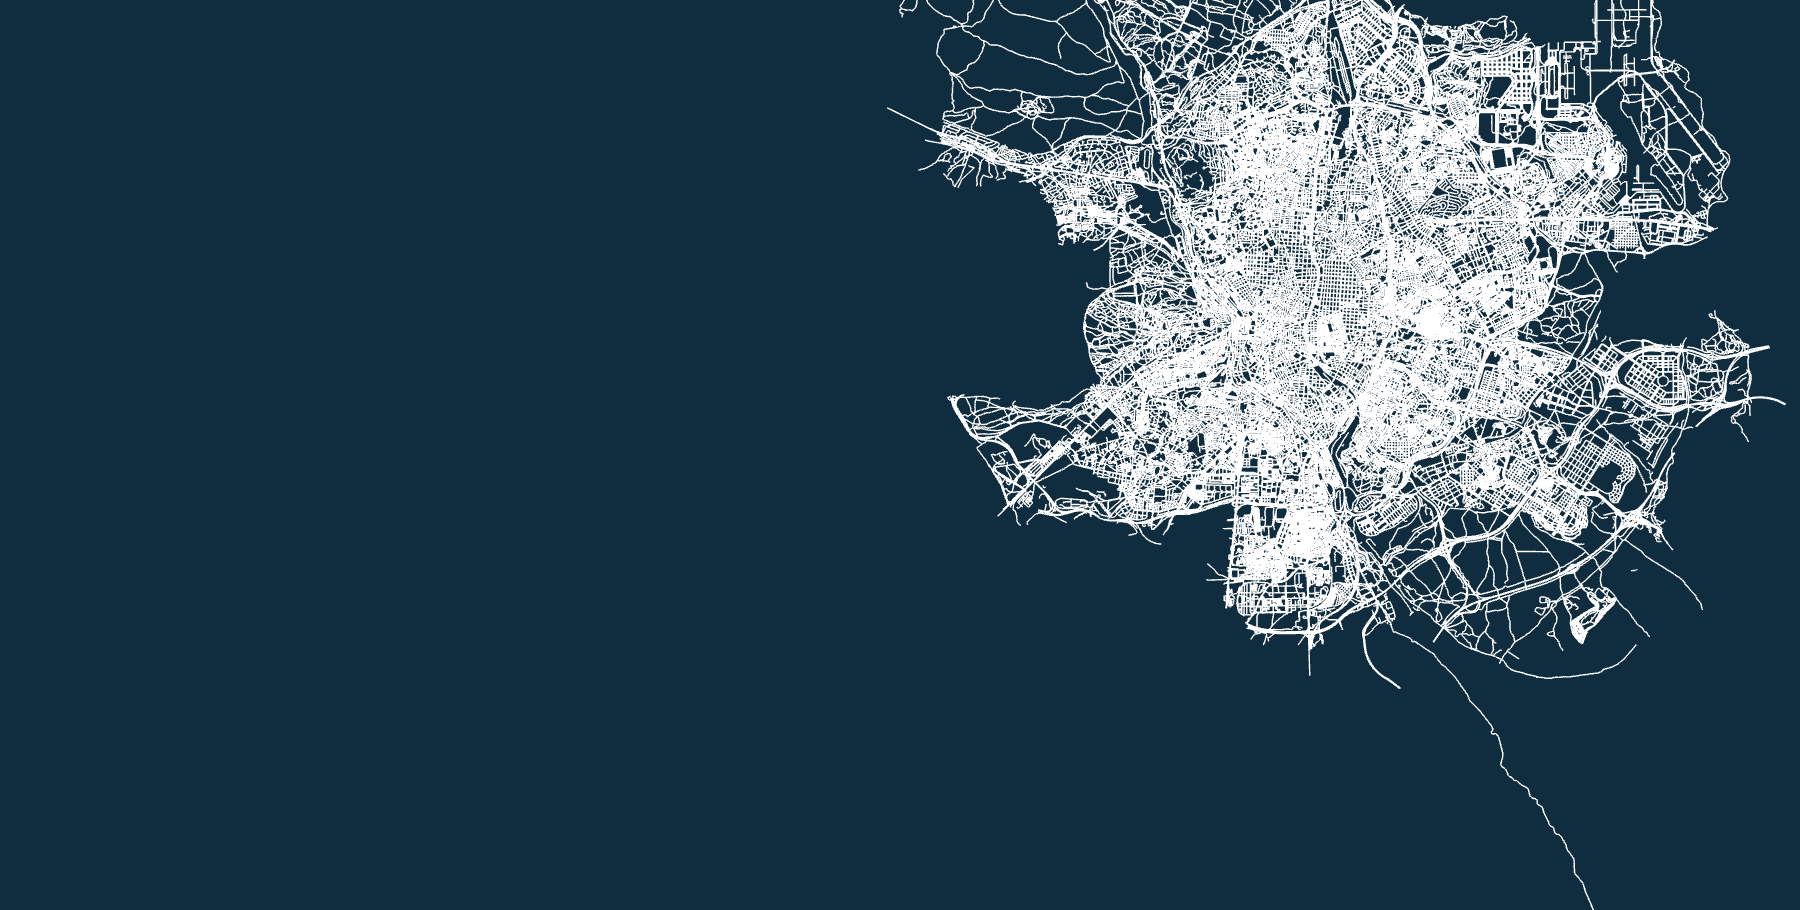
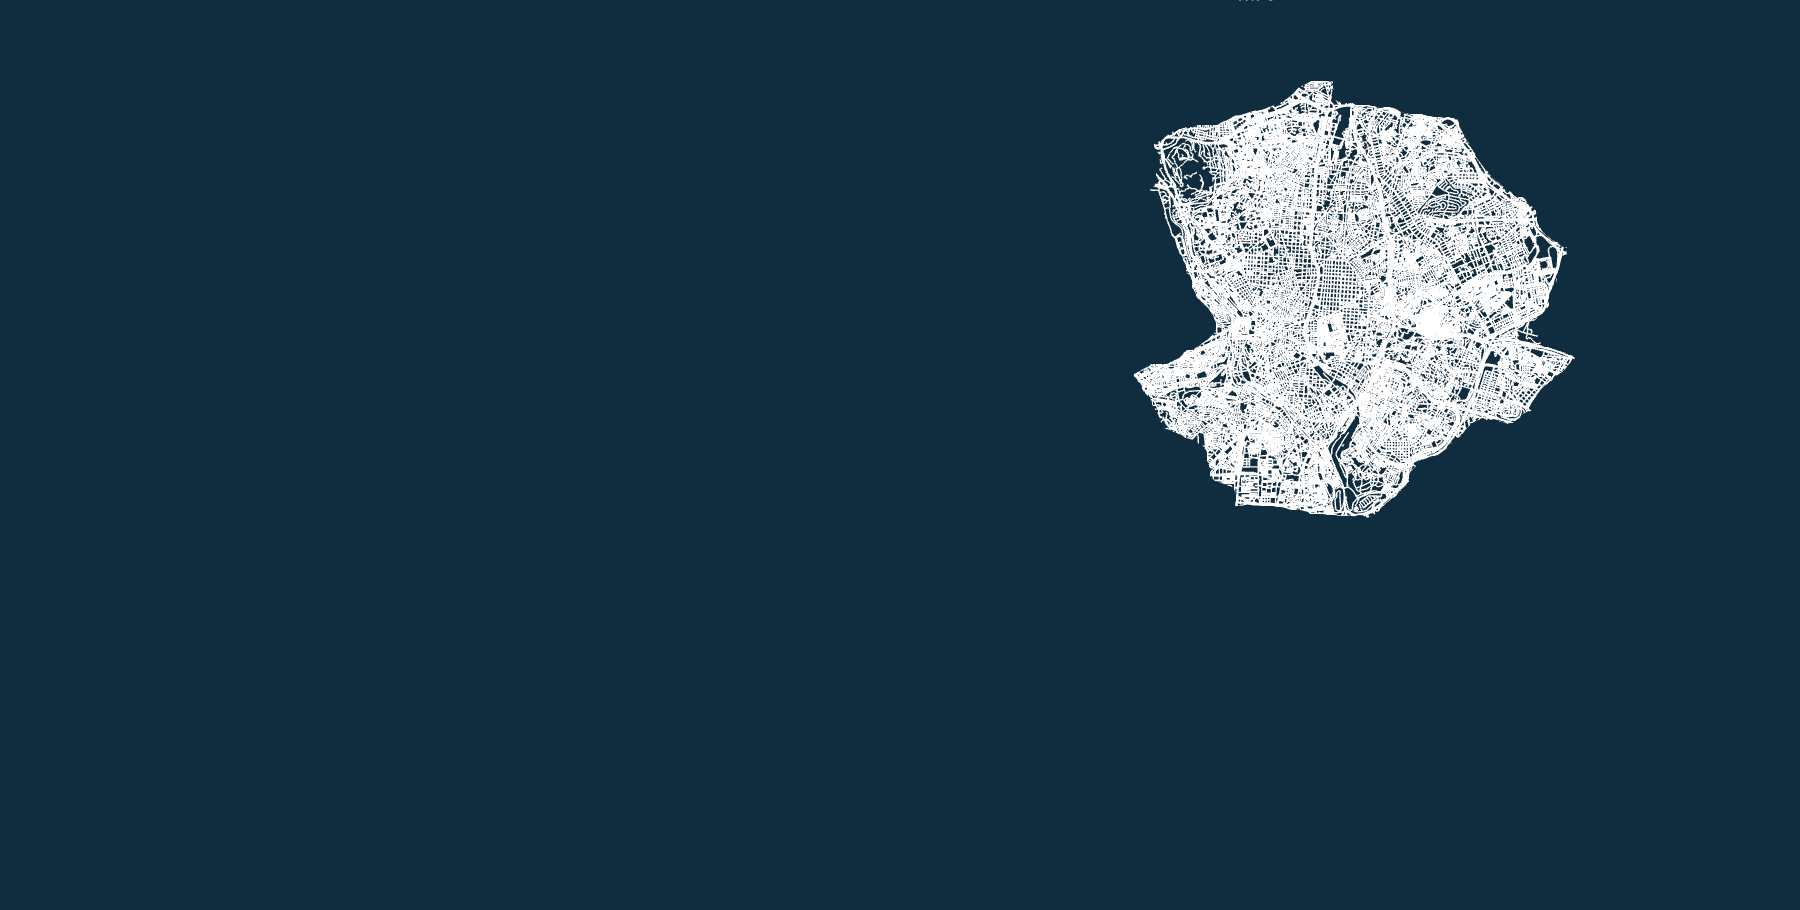
amb canvis després reunió, que es vegin tots els carrers, slogan només text, imatges i texte vertical opció madrid fora

Changed region(s): [[0.4978, 0.0, 0.9956, 0.7385], [0.4978, 0.0, 0.56, 0.0308]]

diff --git a/css/desktop/options.css b/css/desktop/options.css
@@ -15,27 +15,6 @@
         height: 100%;
         display: flex;
 
-        & .option--image{
-          position: absolute;
-          top: 0;
-          right: 0;
-          width: 33%;
-          height: 40%;
-          overflow: hidden;
-          & .option--img{
-            width: 100%;
-            height: 100%;
-            object-fit: cover;
-            opacity: 1;
-            transition: transform 0.5s;
-
-            &:hover {
-              transform: scale(1.1);
-            }
-          }
-        }
-
-
         & .main__grid--container{
           display: flex;
           flex-direction: column;
@@ -253,51 +232,17 @@
         }
       }
 
-      & .vertical--text--box{
-        display: flex;
-        align-items: center;
-        justify-content: center;
-        padding-right: 3rem;
-        gap: 1.5rem;
-        pointer-events: none;
-
-        & .vertical--text{
-          writing-mode: vertical-lr;
-          rotate: 180deg;
-          font-size: 15vh;
-          line-height: 130px;
-          font-weight: bold;
-          /*background-image: linear-gradient(90deg, #102d3f 0%, #62957d 80%);*/
-          /*-webkit-background-clip: text;*/
-          /*-webkit-text-fill-color: transparent;*/
-          color:var(--secondary-color);
-        }
-
-        @media (max-width: 1400px){
-          & .vertical--text{
-            line-height: 112px;
-          }
-
-        }
-
-        & > *:nth-child(odd){
-          /*background-image: linear-gradient(90deg, #95c1ad 0%, #62957d 80%);*/
-          /*-webkit-background-clip: text;*/
-          /*-webkit-text-fill-color: transparent;*/
-          color: var(--primary-color);
-        }
-      }
     }
     &.container__madrid {
       & .option__container {
         justify-content: flex-end;
 
         & .option__box{
-          justify-content: space-around;
+          justify-content: center;
 
-          /*& .main__grid--container{*/
-          /*  margin: 0 auto;*/
-          /*}*/
+          & .main__grid--container {
+            max-width: 900px;
+          }
         }
       }
     }

diff --git a/index.html b/index.html
@@ -22,7 +22,7 @@
         <div class="container--bg">
           <img
             class="image"
-            src="assets/images/streets_madrid3.png"
+            src="assets/images/streets_madrid5.png"
             alt="fondo_madrid"
           />
 <!--          <video-->
@@ -35,13 +35,6 @@
         </div>
         <div class="option__container" id="option__container--madrid">
           <div class="option__box">
-            <div class="option--image">
-              <img
-                class="option--img"
-                src="./assets/images/abogados.jpg"
-                alt="background-image"
-              />
-            </div>
             <div class="main__grid--container">
               <div class="title">
                 <h3 data-lang="option-madrid-title">
@@ -92,23 +85,13 @@
                 </a>
               </div>
             </div>
-            <div class="vertical--text--box">
-              <p class="vertical--text" data-lang="vertical-text-1">
-                Excelencia
-              </p>
-              <p class="vertical--text" data-lang="vertical-text-2">
-                Confianza
-              </p>
-              <p class="vertical--text" data-lang="vertical-text-3">Ética</p>
-            </div>
-          </div>
         </div>
       </section>
       <section class="container container__andorra">
         <div class="container--bg">
           <img
             class="image"
-            src="./assets/images/streets_andorra2.png"
+            src="./assets/images/streets_andorra3.png"
             alt="fondo_andorra"
           />
 <!--          <video-->

diff --git a/css/desktop/containers.css b/css/desktop/containers.css
@@ -10,6 +10,7 @@
     & h1{
       font-size: clamp(20px, 3vw, 60px);
       color: var(--secondary-color);
+      text-shadow: rgb(16, 45, 63) 1px 0px 0px, rgb(16, 45, 63) 0.540302px 0.841471px 0px, rgb(16, 45, 63) -0.416147px 0.909297px 0px, rgb(16, 45, 63) -0.989992px 0.14112px 0px, rgb(16, 45, 63) -0.653644px -0.756802px 0px, rgb(16, 45, 63) 0.283662px -0.958924px 0px, rgb(16, 45, 63) 0.96017px -0.279415px 0px;
     }
 
   }
@@ -214,7 +215,7 @@
             align-items: flex-end;
 
             & h2 {
-              font-size: 2rem;
+              font-size: 1.5rem;
               color: white;
             }
 
